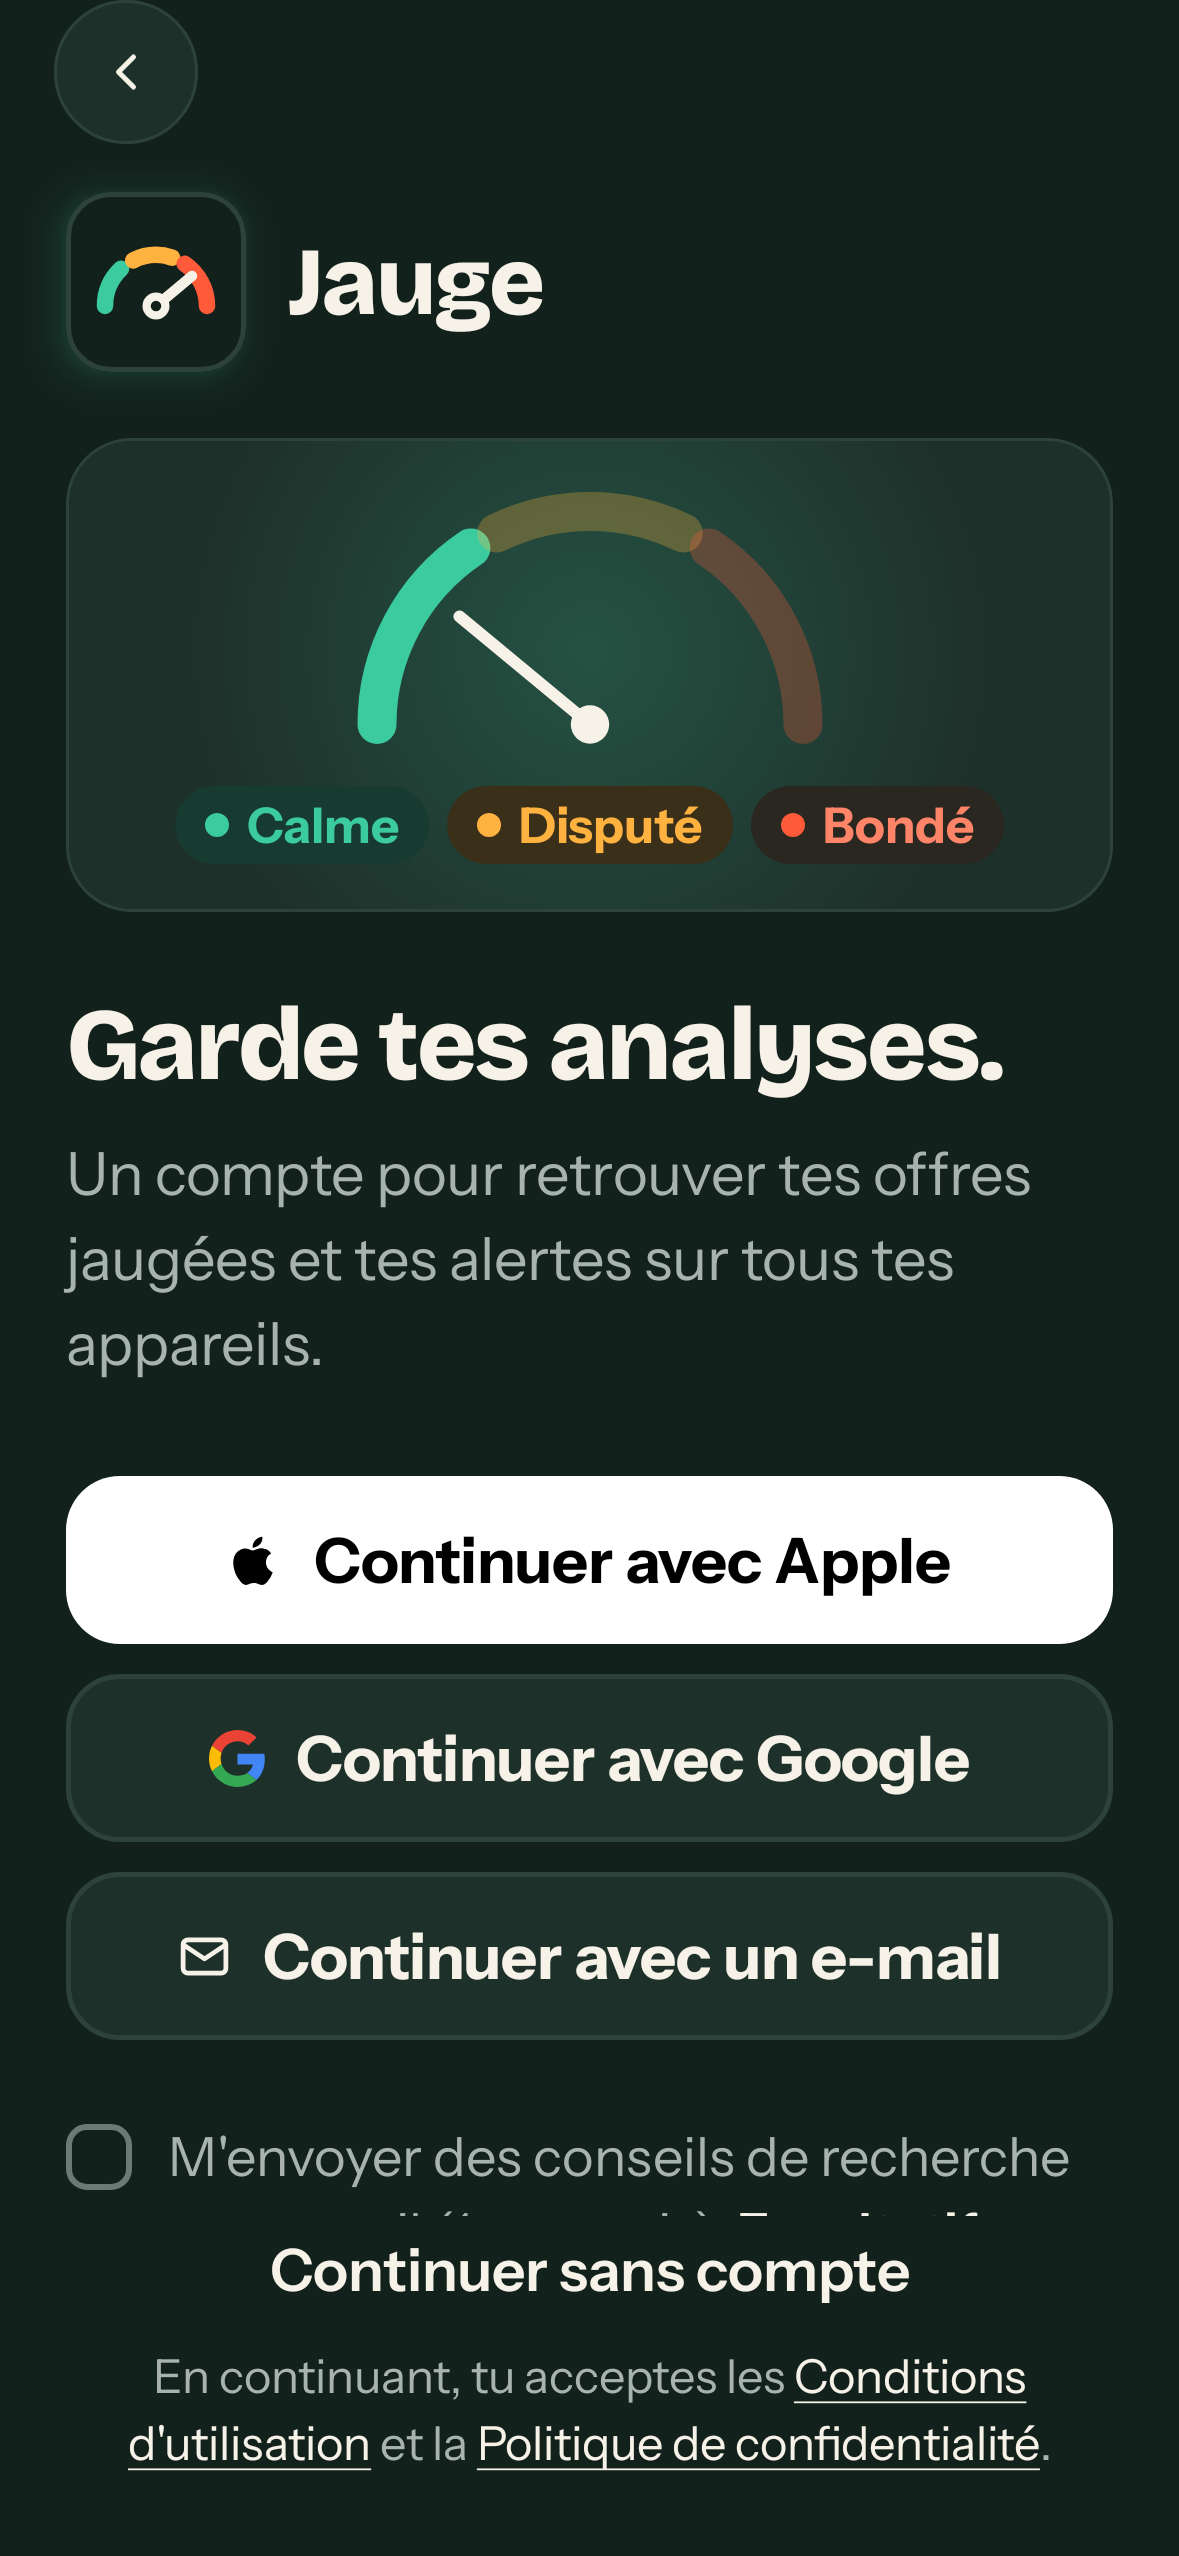
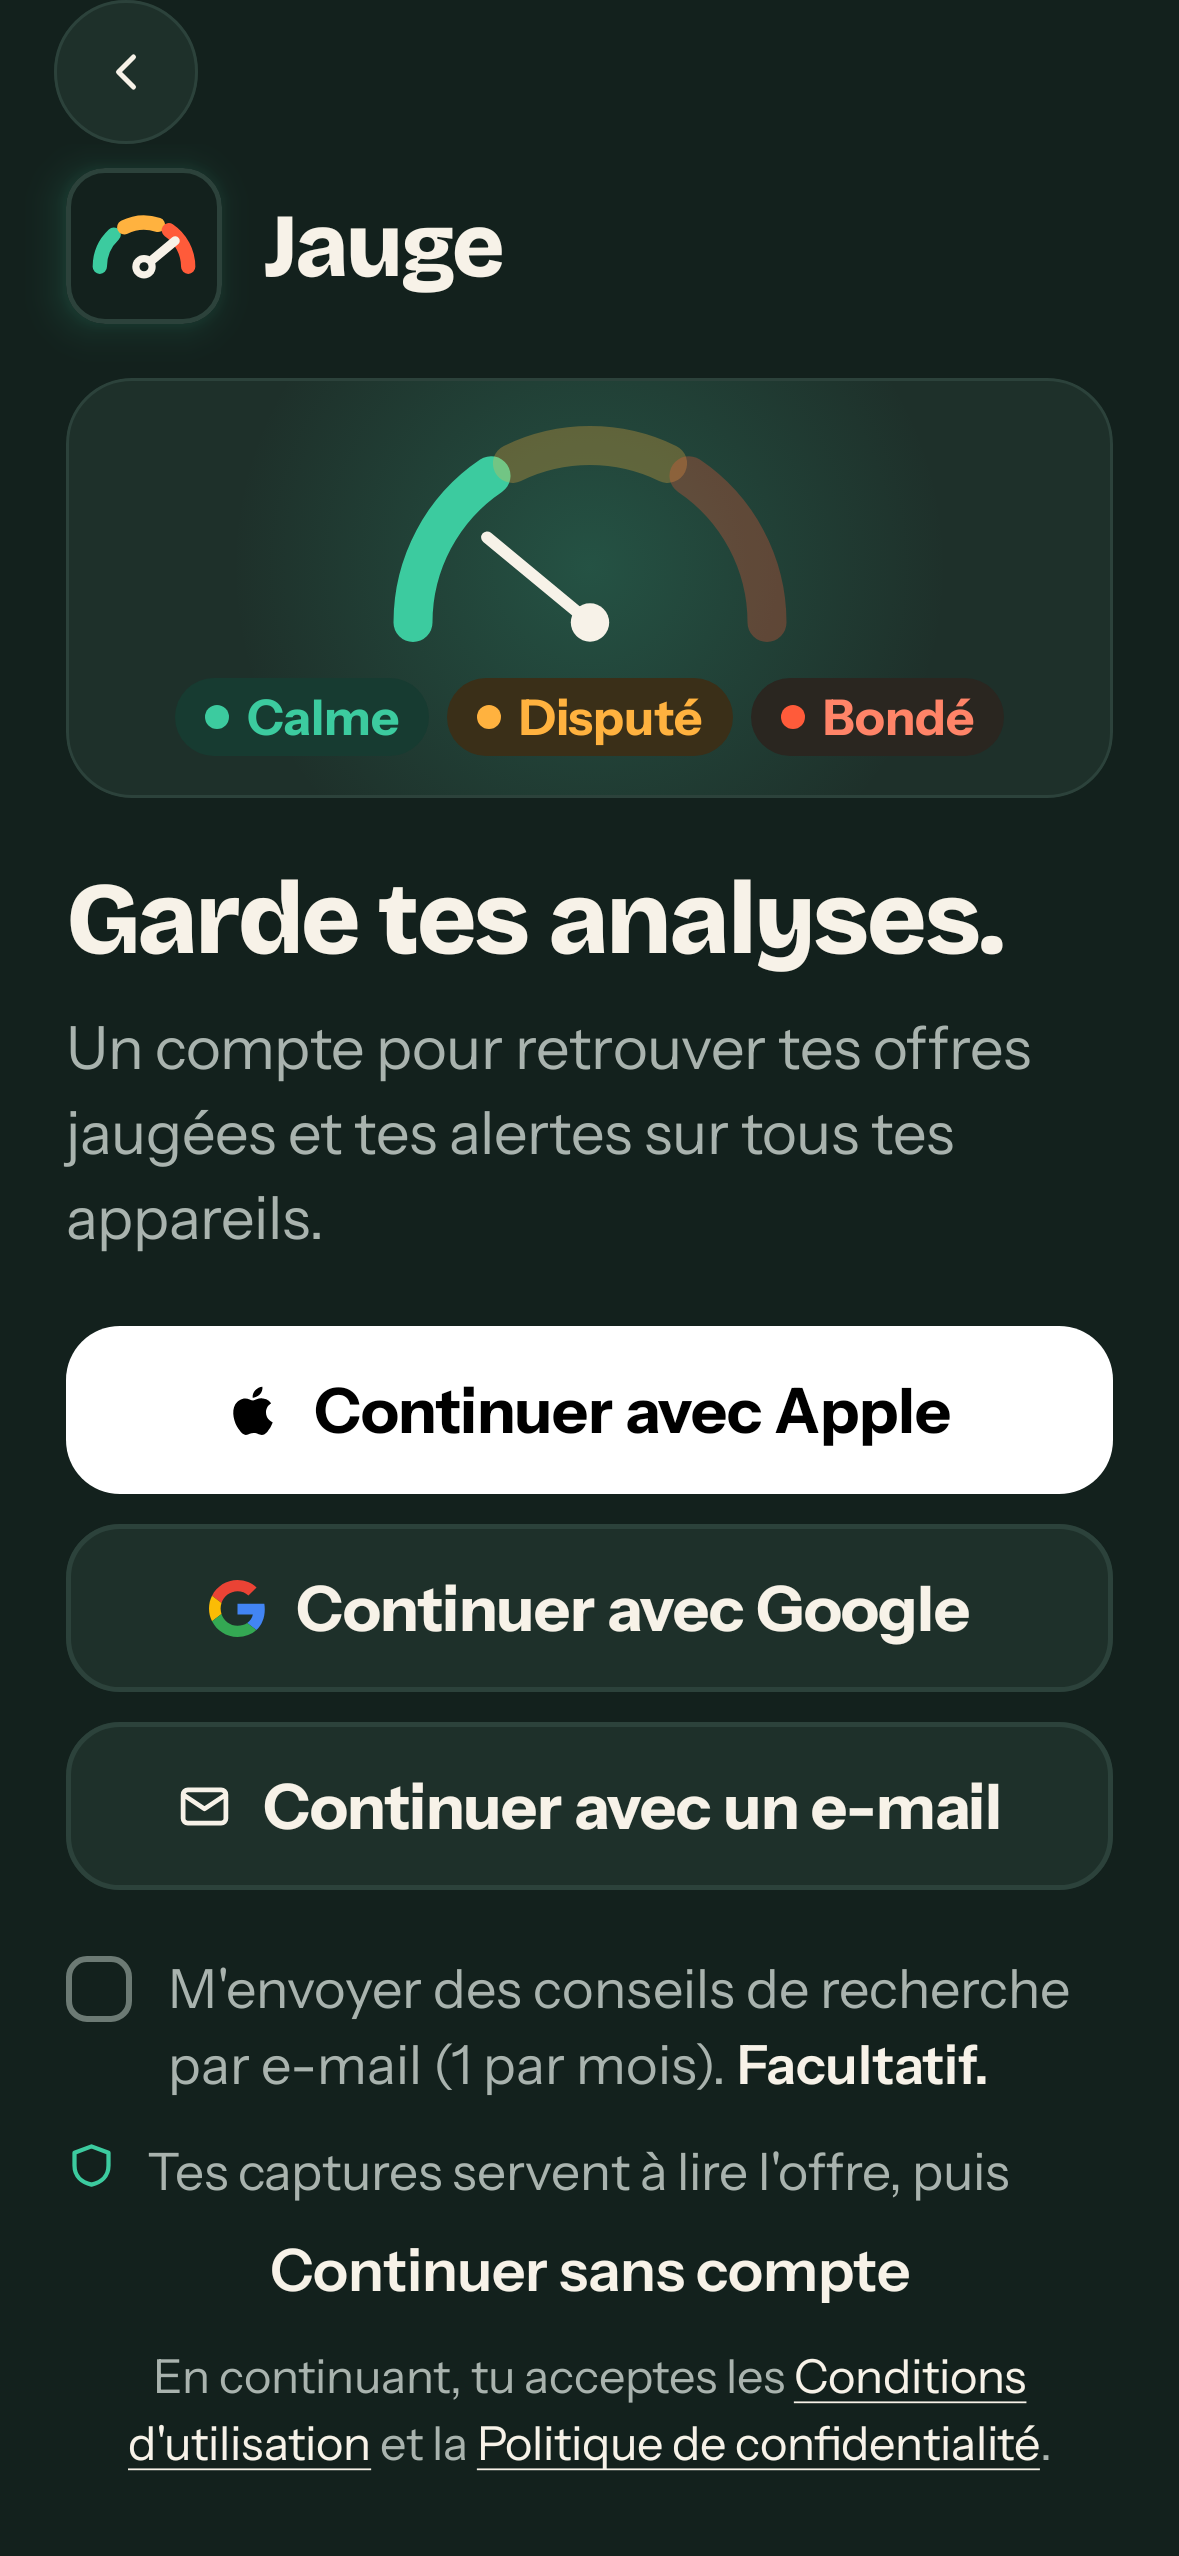
fix: compact the account screen so the consents fit above the fold

Changed region(s): [[0.0305, 0.0618, 0.9466, 0.68], [0.0305, 0.68, 0.9466, 0.8654]]

diff --git a/feature/account/src/commonMain/kotlin/io/jauge/feature/account/account/AccountScreen.kt b/feature/account/src/commonMain/kotlin/io/jauge/feature/account/account/AccountScreen.kt
@@ -150,15 +150,15 @@ fun AccountContent(
                     .weight(1f)
                     .verticalScroll(rememberScrollState())
                     .padding(horizontal = gutter)
-                    .padding(top = 16.dp, bottom = 16.dp),
+                    .padding(top = 8.dp, bottom = 16.dp),
             ) {
                 BrandHeader()
-                BrandVisual(modifier = Modifier.padding(top = 22.dp))
+                BrandVisual(modifier = Modifier.padding(top = 18.dp))
                 Text(
                     text = stringResource(Res.string.account_headline),
                     style = typography.headline.copy(fontSize = 34.sp, lineHeight = 36.sp),
                     color = colors.textPrimary,
-                    modifier = Modifier.padding(top = 24.dp),
+                    modifier = Modifier.padding(top = 20.dp),
                 )
                 Text(
                     text = stringResource(Res.string.account_text),
@@ -167,7 +167,7 @@ fun AccountContent(
                     modifier = Modifier.padding(top = 10.dp),
                 )
                 state.error?.let { InlineError(error = it, modifier = Modifier.padding(top = 20.dp)) }
-                Column(modifier = Modifier.padding(top = 32.dp), verticalArrangement = Arrangement.spacedBy(10.dp)) {
+                Column(modifier = Modifier.padding(top = 24.dp), verticalArrangement = Arrangement.spacedBy(10.dp)) {
                     ProviderButton(
                         text = stringResource(Res.string.account_continue_apple),
                         icon = ProviderLogos.Apple,
@@ -200,7 +200,7 @@ fun AccountContent(
                 }
                 Row(
                     modifier = Modifier
-                        .padding(top = 28.dp)
+                        .padding(top = 22.dp)
                         .toggleable(value = state.marketingEmails, role = Role.Checkbox, onValueChange = onMarketingEmailsChange),
                     horizontalArrangement = Arrangement.spacedBy(12.dp),
                 ) {
@@ -264,18 +264,18 @@ fun AccountContent(
 @Composable
 private fun BrandHeader() {
     val colors = JaugeTheme.colors
-    val logoShape = RoundedCornerShape(15.dp)
+    val logoShape = RoundedCornerShape(13.dp)
     Row(verticalAlignment = Alignment.CenterVertically) {
         // The ink logo sits on the ink background: a thin outline and a soft shadow give it its edges back.
         JaugeLogo(
             modifier = Modifier
-                .size(60.dp)
+                .size(52.dp)
                 .shadow(elevation = 8.dp, shape = logoShape, ambientColor = JaugePalette.Mint, spotColor = JaugePalette.Mint)
                 .border(1.5.dp, colors.outline, logoShape),
         )
         Text(
             text = stringResource(Res.string.account_brand_name),
-            style = JaugeTheme.typography.headline.copy(fontSize = 32.sp, lineHeight = 34.sp),
+            style = JaugeTheme.typography.headline.copy(fontSize = 30.sp, lineHeight = 32.sp),
             color = colors.textPrimary,
             modifier = Modifier.padding(start = 14.dp),
         )
@@ -307,16 +307,16 @@ private fun BrandVisual(modifier: Modifier = Modifier) {
                 )
             }
             .border(1.dp, colors.outline, shape)
-            .padding(horizontal = 16.dp, vertical = 16.dp),
+            .padding(horizontal = 16.dp, vertical = 14.dp),
         horizontalAlignment = Alignment.CenterHorizontally,
     ) {
         JaugeGauge(
             score = BRAND_VISUAL_SCORE,
             size = GaugeSize.MEDIUM,
             needleColor = colors.textPrimary,
-            modifier = Modifier.size(width = 176.dp, height = 88.dp),
+            modifier = Modifier.size(width = 152.dp, height = 76.dp),
         )
-        Row(modifier = Modifier.padding(top = 12.dp), horizontalArrangement = Arrangement.spacedBy(6.dp)) {
+        Row(modifier = Modifier.padding(top = 10.dp), horizontalArrangement = Arrangement.spacedBy(6.dp)) {
             LevelPill(level = GaugeLevel.CALM, showDot = true)
             LevelPill(level = GaugeLevel.DISPUTED, showDot = true)
             LevelPill(level = GaugeLevel.CROWDED, showDot = true)
